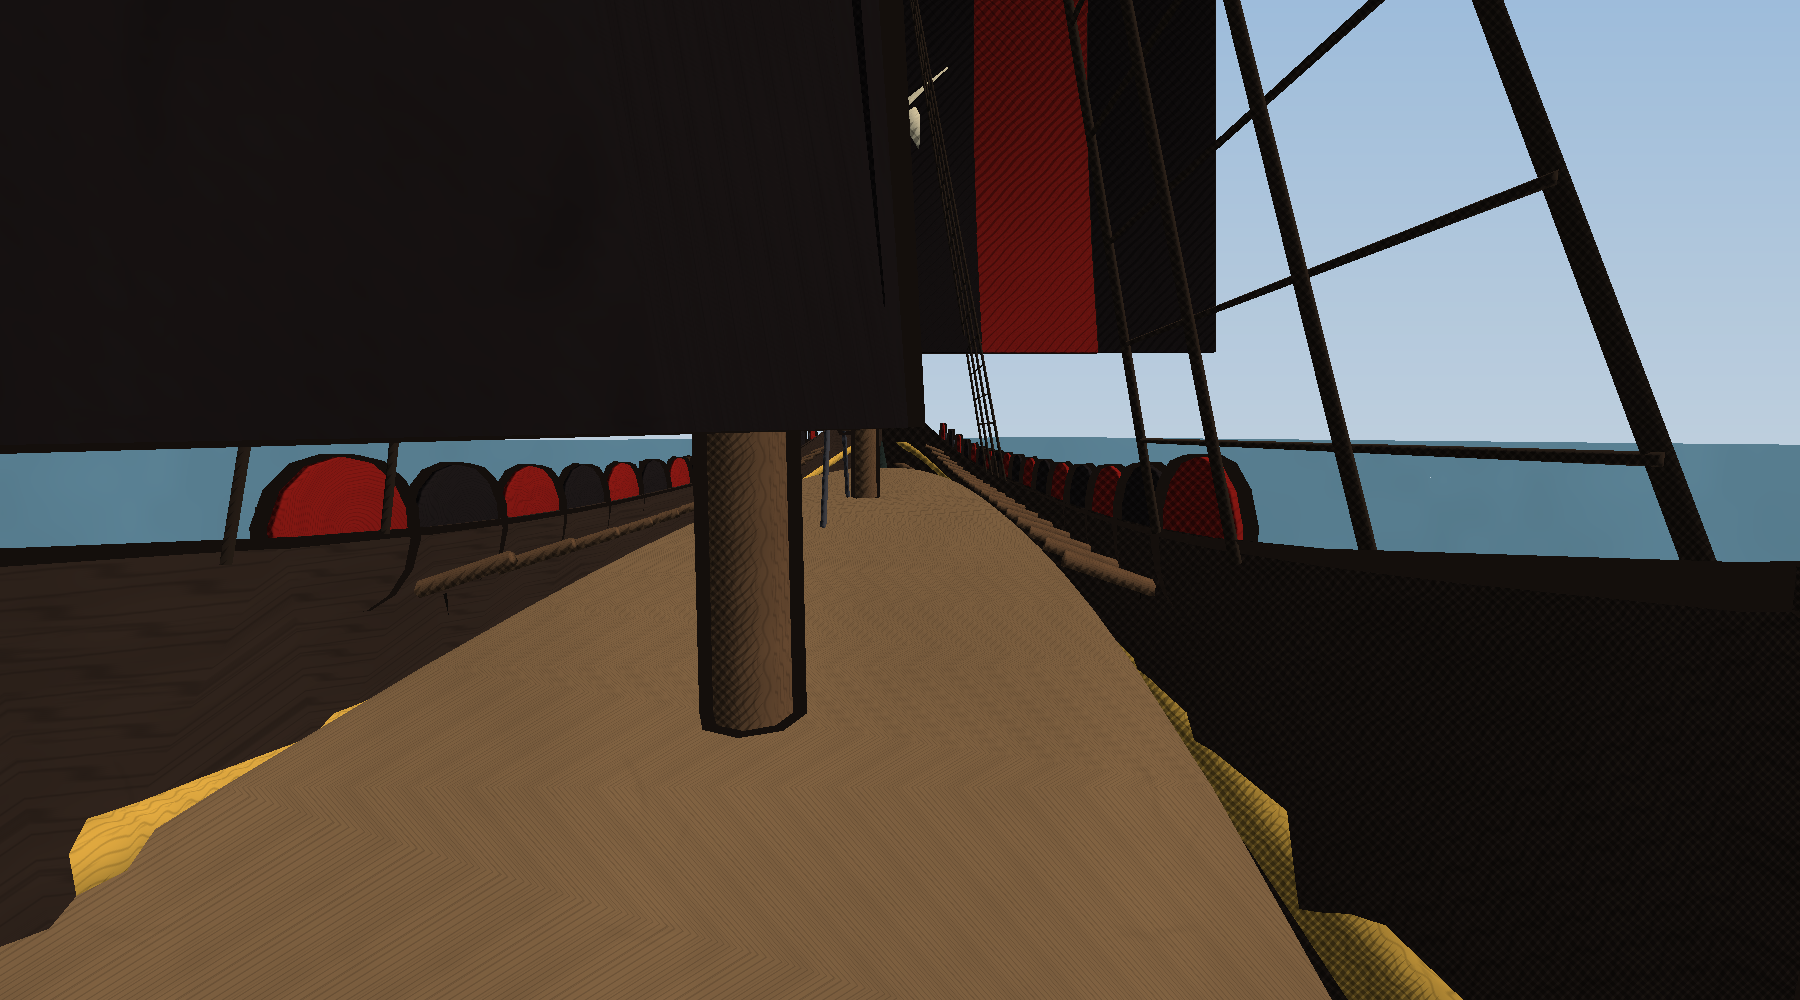
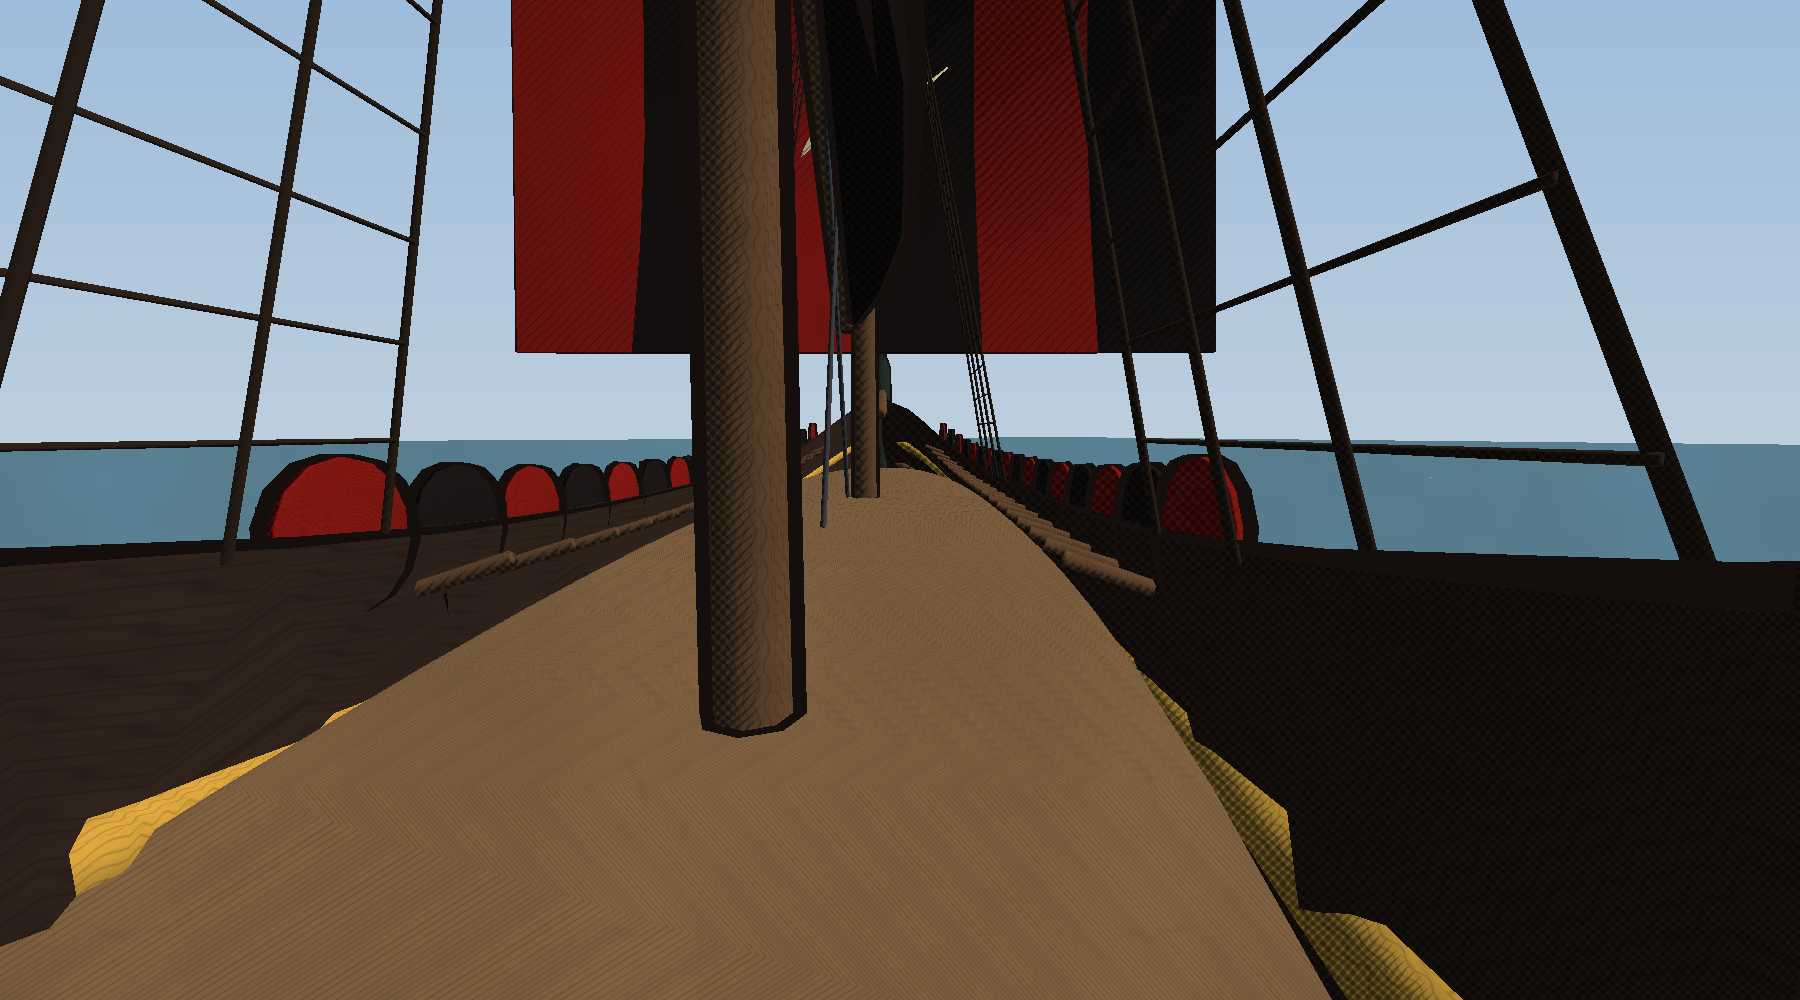
Sails hang clear of the steersman: square and lateen feet stay 2.6 m above the deck, so from the helm you see ahead under them
The Wavewolf's mizzen hung its foot at head height just in front of the helm
and blotted out the whole view forward in first person.

Claude-Session: https://claude.ai/code/session_01SCdejJ1UF8RUxAkkFhZXGU

Changed region(s): [[0.0, 0.0, 0.5289, 0.465], [0.4978, 0.093, 0.5289, 0.155]]

diff --git a/OdinsCoin/Assets/Scripts/Ship/ShipModel.cs b/OdinsCoin/Assets/Scripts/Ship/ShipModel.cs
@@ -342,11 +342,17 @@ namespace OdinsCoin
             m.Add(Joint, look.iron, MeshData.Tube(new[] { tip, new Vector3(0f, 0.3f, d.length / 2f) }, new[] { 0.03f, 0.03f }, 4), false);
         }
 
+        /// <summary>How far above the deck a square sail's foot stays at least (m).</summary>
+        public const float SailFootClearance = 2.6f;
+
         /// <summary>A striped square sail hung from a yard across the mast, bellied forward, with a rune sewn on the middle.</summary>
         static void SquareSail(VikingModel yard, VikingModel m, SailPlan s, float deckY, float mastTop, ShipLook look)
         {
             float top = mastTop * 0.93f;
-            float h = Mathf.Sqrt(s.area * 0.85f), w = s.area / h;
+            float h = Mathf.Sqrt(s.area * 0.85f);
+            // The foot stays well above head height, so the steersman can see ahead under it: a shorter, wider sail.
+            h = Mathf.Min(h, top - (deckY + SailFootClearance));
+            float w = s.area / h;
             float bottom = top - h;
             yard.Add(Joint, look.strake, MeshData.Tube(new[] { new Vector3(-w * 0.58f, top, s.x + 0.2f), new Vector3(0f, top + 0.15f, s.x + 0.25f), new Vector3(w * 0.58f, top, s.x + 0.2f) }, new[] { 0.1f, 0.14f, 0.1f }, 6), true, SurfaceKind.Wood);
             const int stripes = 6, rows = 6;
@@ -378,10 +384,11 @@ namespace OdinsCoin
         static void LateenSail(VikingModel yard, VikingModel m, SailPlan s, float deckY, float mastTop, ShipLook look)
         {
             float span = Mathf.Sqrt(s.area * 2.6f);
-            var fore = new Vector3(0f, deckY + 1.5f, s.x + span * 0.45f);
+            // Its foot is kept above head height, like the square sails', so it doesn't blind the steersman.
+            var fore = new Vector3(0f, deckY + SailFootClearance + 0.3f, s.x + span * 0.45f);
             var aft = new Vector3(0f, mastTop * 1.05f, s.x - span * 0.55f);
             yard.Add(Joint, look.strake, MeshData.Tube(new[] { fore, aft }, new[] { 0.1f, 0.06f }, 6), true, SurfaceKind.Wood);
-            var clew = new Vector3(0f, deckY + 1.2f, s.x - span * 0.35f);
+            var clew = new Vector3(0f, deckY + SailFootClearance, s.x - span * 0.35f);
             const int rows = 6;
             var grid = new Vector3[rows, 2];
             for (int r = 0; r < rows; r++)
@@ -418,7 +425,7 @@ namespace OdinsCoin
                 LateenSail(yard, cloth, s, deckY, height, look);
                 float span = Mathf.Sqrt(s.area * 2.6f);
                 pivot = new Vector3(0f, height * 0.7f, s.x);
-                gather = (new Vector3(0f, deckY + 1.5f, s.x + span * 0.45f) + new Vector3(0f, height * 1.05f, s.x - span * 0.55f)) / 2f;
+                gather = (new Vector3(0f, deckY + SailFootClearance + 0.3f, s.x + span * 0.45f) + new Vector3(0f, height * 1.05f, s.x - span * 0.55f)) / 2f;
             }
             float ink = 0.06f * Mathf.Sqrt(d.length / 20f);
             yard.AddOutlines(ink, new Color(0.08f, 0.06f, 0.05f));
